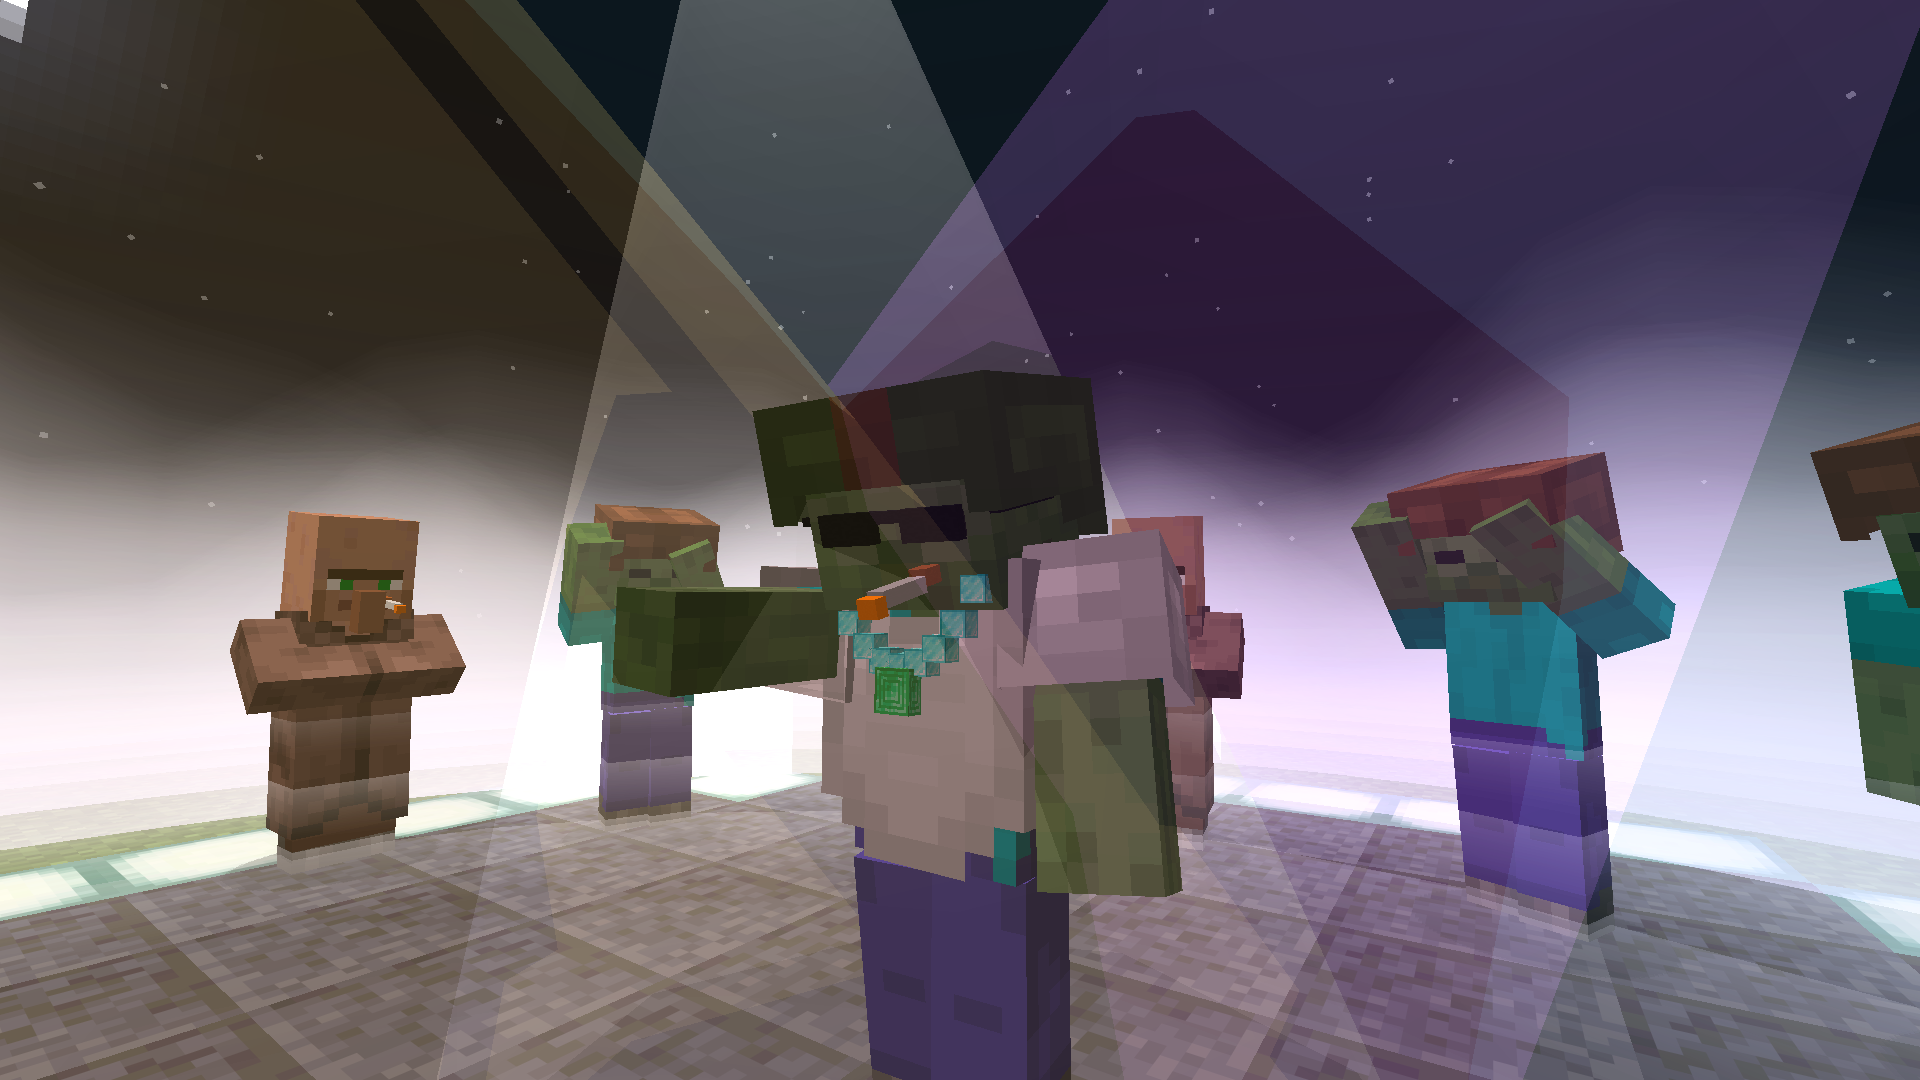
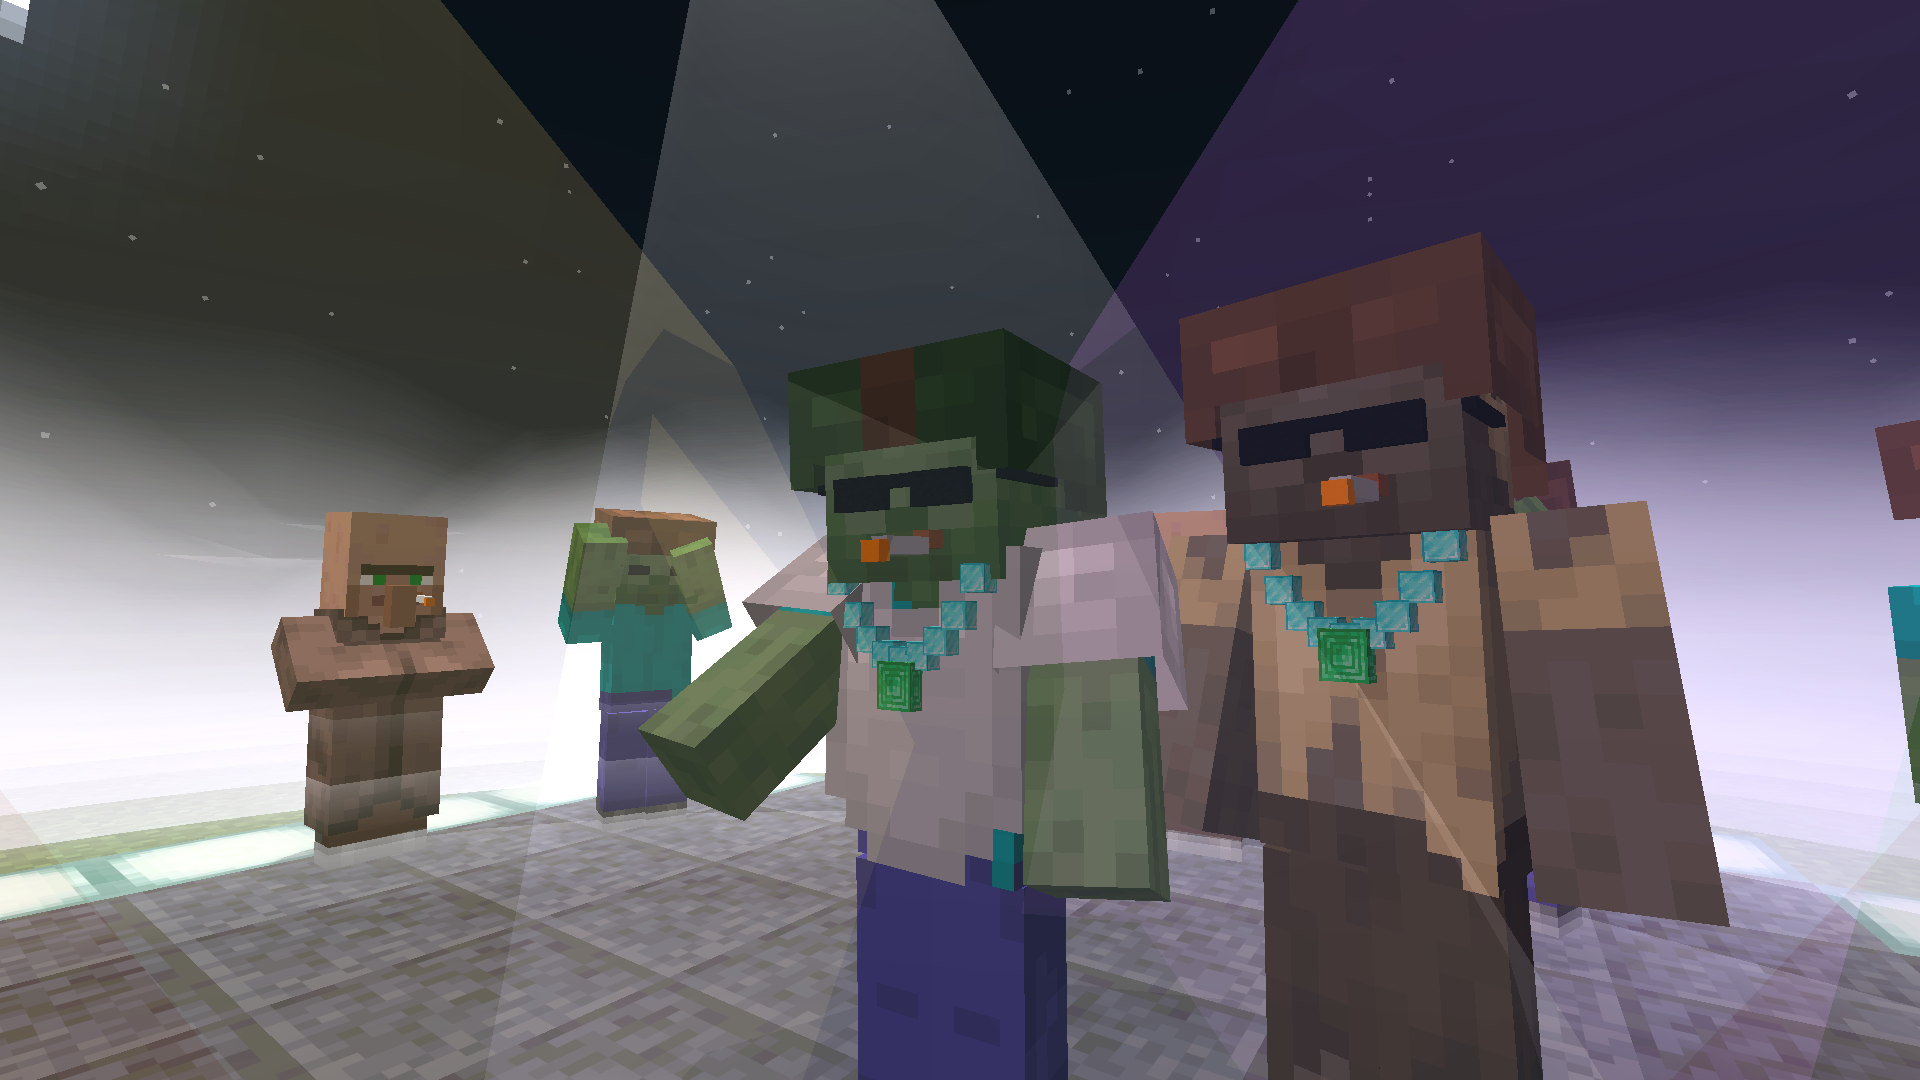
Кореша банды встают рядом с главным мобом, толпа не дерётся во время баттла, новые скрины

diff --git a/src/main/java/dev/rapbattle/battle/Battle.java b/src/main/java/dev/rapbattle/battle/Battle.java
@@ -272,6 +272,45 @@ public class Battle {
 		}
 	}
 
+	/**
+	 * The crew stands with its leader: shoulder to shoulder in one line facing the challenger, alternating right and
+	 * left of the main mob and half a step back, so everyone who reads is on stage and in the spotlights.
+	 */
+	private void placeCrew() {
+		ServerPlayerEntity c = challenger();
+		if (c == null || boss || mobTeam.size() < 2) return;
+		Vec3d p = new Vec3d(c.getX(), c.getY(), c.getZ());
+		Vec3d m = new Vec3d(mob.getX(), mob.getY(), mob.getZ());
+		Vec3d dir = m.subtract(p).multiply(1, 0, 1);
+		if (dir.lengthSquared() < 1e-4) return;
+		dir = dir.normalize();
+		Vec3d side = new Vec3d(-dir.z, 0, dir.x);
+		int k = 0;
+		double reachRight = mob.getWidth() / 2, reachLeft = mob.getWidth() / 2;
+		for (MobEntity e : mobTeam) {
+			if (e == mob) continue;
+			boolean right = k++ % 2 == 0;
+			double gap = 0.35 + e.getWidth() / 2;
+			double off = (right ? reachRight : reachLeft) + gap;
+			if (right) reachRight = off + e.getWidth() / 2; else reachLeft = off + e.getWidth() / 2;
+			Vec3d target = m.add(side.multiply(right ? off : -off)).add(dir.multiply(0.5));
+			Vec3d look = p.subtract(target);
+			float yaw = (float) (Math.toDegrees(Math.atan2(look.z, look.x)) - 90);
+			Vec3d cur = new Vec3d(e.getX(), e.getY(), e.getZ());
+			for (double y : new double[]{0, 1, -1}) {
+				Vec3d at = new Vec3d(target.x, Math.floor(m.y) + y, target.z);
+				var box = e.getBoundingBox().offset(at.subtract(cur));
+				if (world.isSpaceEmpty(e, box) && !world.isSpaceEmpty(e, box.offset(0, -0.2, 0))) {
+					e.refreshPositionAndAngles(at.x, at.y, at.z, yaw, 0);
+					e.setHeadYaw(yaw);
+					e.setBodyYaw(yaw);
+					world.spawnParticles(net.minecraft.particle.ParticleTypes.CLOUD, at.x, at.y + 0.2, at.z, 6, 0.3, 0.1, 0.3, 0.01);
+					break;
+				}
+			}
+		}
+	}
+
 	private void closeLobby() {
 		setStage();
 		for (UUID u : new ArrayList<>(invited)) {
@@ -293,6 +332,7 @@ public class Battle {
 				if (mobNames.containsValue(n)) n = n + " " + (mobTeam.size() + 1);
 				addMob(m, n);
 			}
+			placeCrew();
 			if (mobTeam.size() > 1) {
 				broadcastChat(Text.literal(opp.name() + " позвал своих: " + String.join(", ", mobTeamNames())).formatted(Formatting.GOLD));
 			}
@@ -533,6 +573,7 @@ public class Battle {
 		if (finished || phase == Phase.RESULT) return;
 		broadcastChat(Text.literal(p.getName().getString() + " полез в драку посреди баттла. Закон улиц нарушен!").formatted(Formatting.DARK_RED));
 		Speech.bubble(mob, "На баттле не бьют! Пацаны, его!", 0xFF4040, 3500);
+		streetLaw = true;
 		if (crowd != null) for (MobEntity m : crowd.fighters(Crowd.Side.MOB)) m.setTarget(p);
 		forfeit(p.getName().getString() + " нарушил закон улиц: на баттле не дерутся.");
 	}
@@ -563,6 +604,28 @@ public class Battle {
 
 	// ------------------------------------------------------------------ tick
 
+	/**
+	 * Nobody near the stage goes for the battlers until the battle is over: a zombie that walks up (or a villager the
+	 * crowd turned into a zombie villager) drops its target instead of swinging at someone who is busy rapping.
+	 */
+	private boolean streetLaw;
+
+	private void keepThePeace() {
+		if (streetLaw) return; // someone threw a punch: the mob's people are allowed to come for him
+		var box = mob.getBoundingBox().expand(24, 8, 24);
+		for (MobEntity m : world.getEntitiesByClass(MobEntity.class, box, m -> m.getTarget() instanceof ServerPlayerEntity)) {
+			if (players.contains(m.getTarget().getUuid())) {
+				m.setTarget(null);
+				m.getNavigation().stop();
+			}
+		}
+	}
+
+	/** A crowd member of this battle (they neither hurt nor get hurt while the show is on). */
+	boolean inCrowd(Entity e) {
+		return crowd != null && e instanceof MobEntity m && crowd.members.containsKey(m);
+	}
+
 	public void tick() {
 		if (finished) return;
 		long now = System.currentTimeMillis();
@@ -572,6 +635,7 @@ public class Battle {
 			return;
 		}
 		mobTeam.removeIf(m -> m != mob && (!m.isAlive() || m.isRemoved()));
+		keepThePeace();
 		for (UUID u : players) {
 			ServerPlayerEntity p = player(u);
 			if (p == null || !p.isAlive()) continue;

diff --git a/src/main/java/dev/rapbattle/battle/BattleManager.java b/src/main/java/dev/rapbattle/battle/BattleManager.java
@@ -168,6 +168,12 @@ public final class BattleManager {
 		return false;
 	}
 
+	private static boolean inAnyCrowd(Entity e) {
+		if (e == null) return false;
+		for (Battle b : BATTLES) if (!b.finished && b.inCrowd(e)) return true;
+		return false;
+	}
+
 	public static Battle byId(int id) {
 		for (Battle b : BATTLES) if (!b.finished && b.id == id) return b;
 		return null;
@@ -329,7 +335,9 @@ public final class BattleManager {
 
 		ServerLivingEntityEvents.ALLOW_DAMAGE.register((entity, source, amount) ->
 			!(entity instanceof ServerPlayerEntity p && (byPlayer(p.getUuid()) != null || PvpBattle.byPlayer(p.getUuid()) != null))
-				&& byMob(entity) == null);
+				&& byMob(entity) == null
+				// The crowd is a truce zone: no zombie turning its neighbour villager into a zombie villager mid-show.
+				&& !inAnyCrowd(entity) && !inAnyCrowd(source.getAttacker()));
 
 		ServerTickEvents.END_SERVER_TICK.register(server -> {
 			for (Battle b : new ArrayList<>(BATTLES)) {
